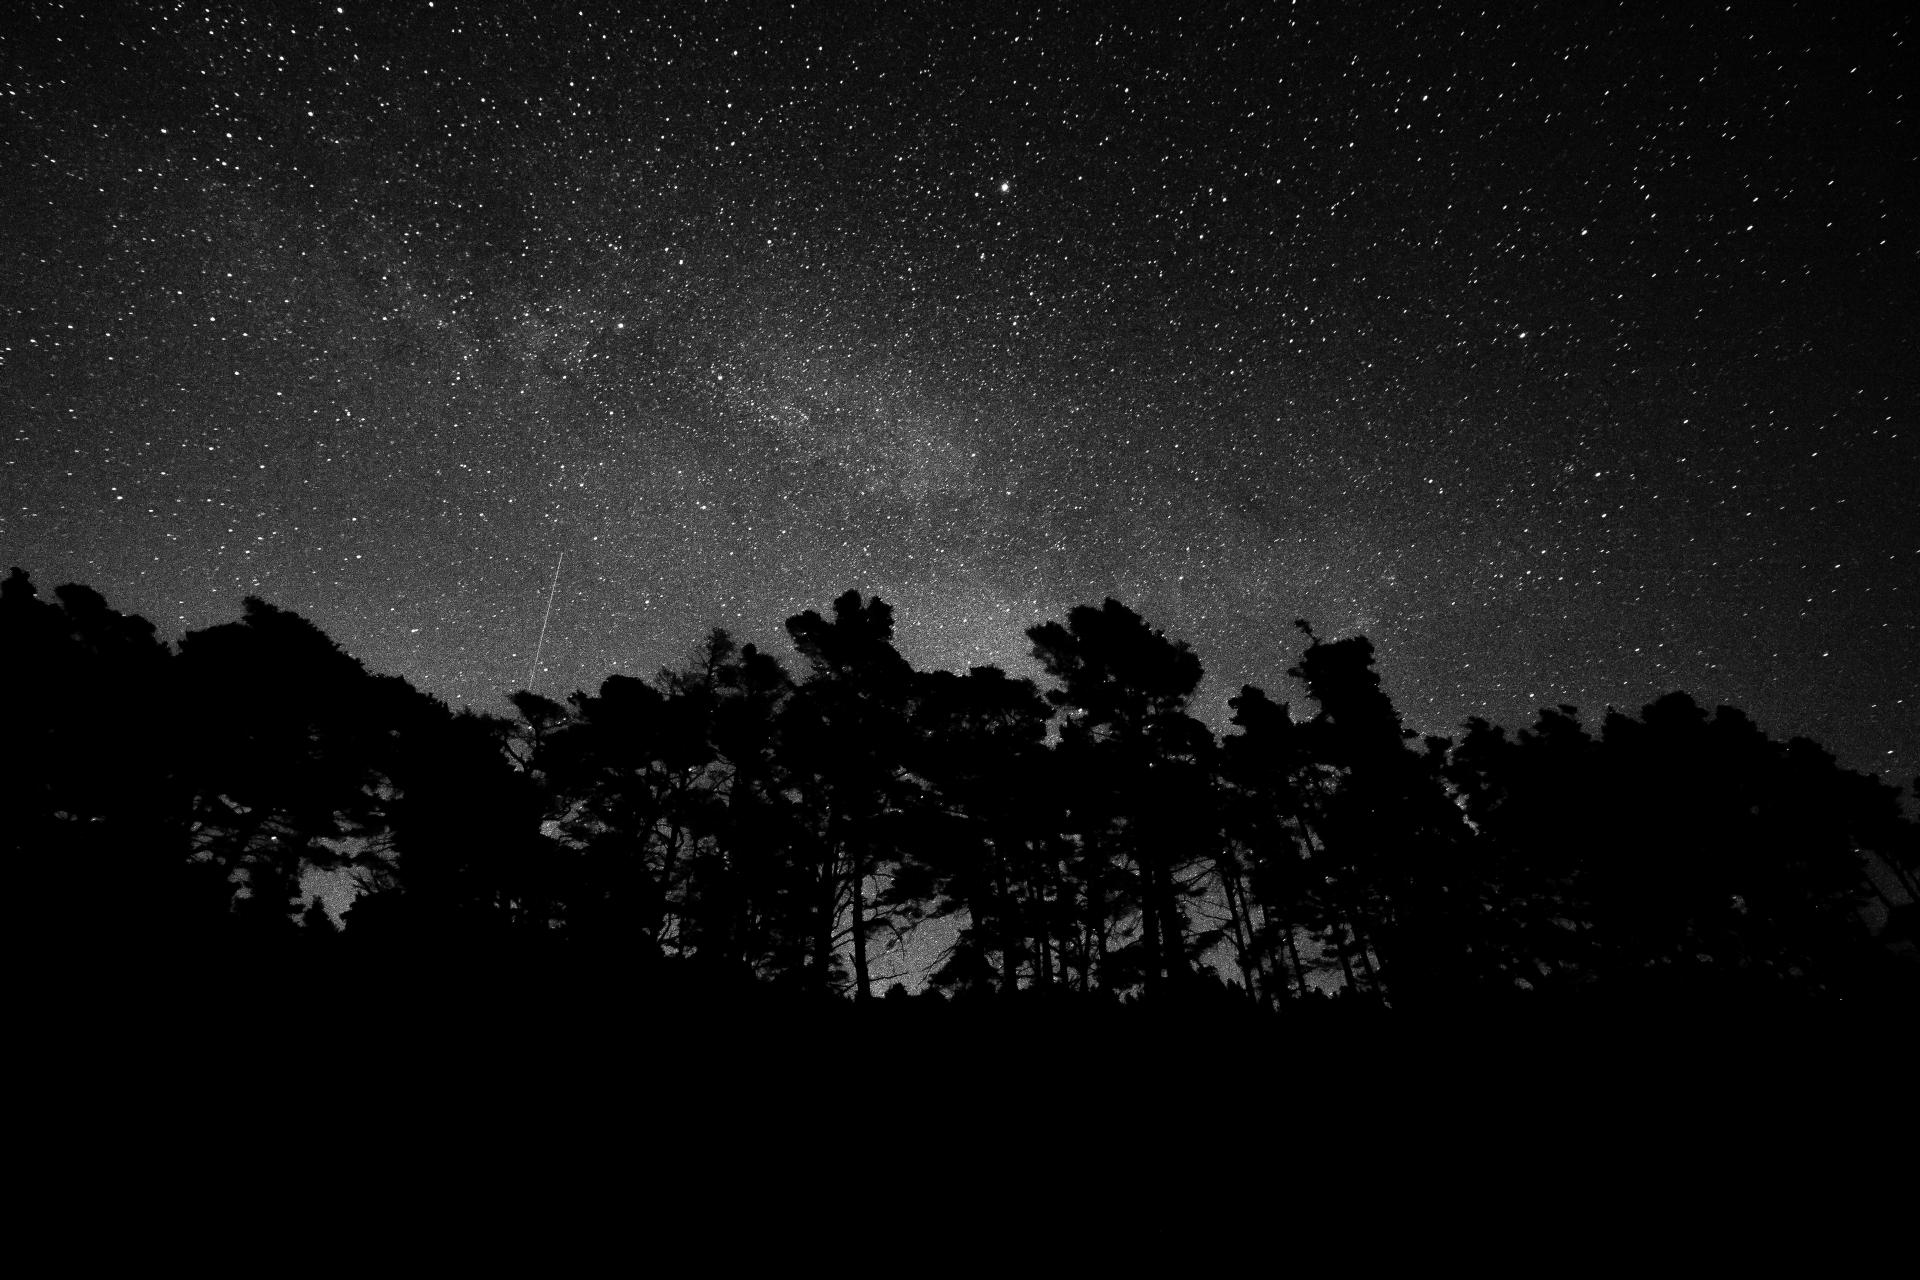
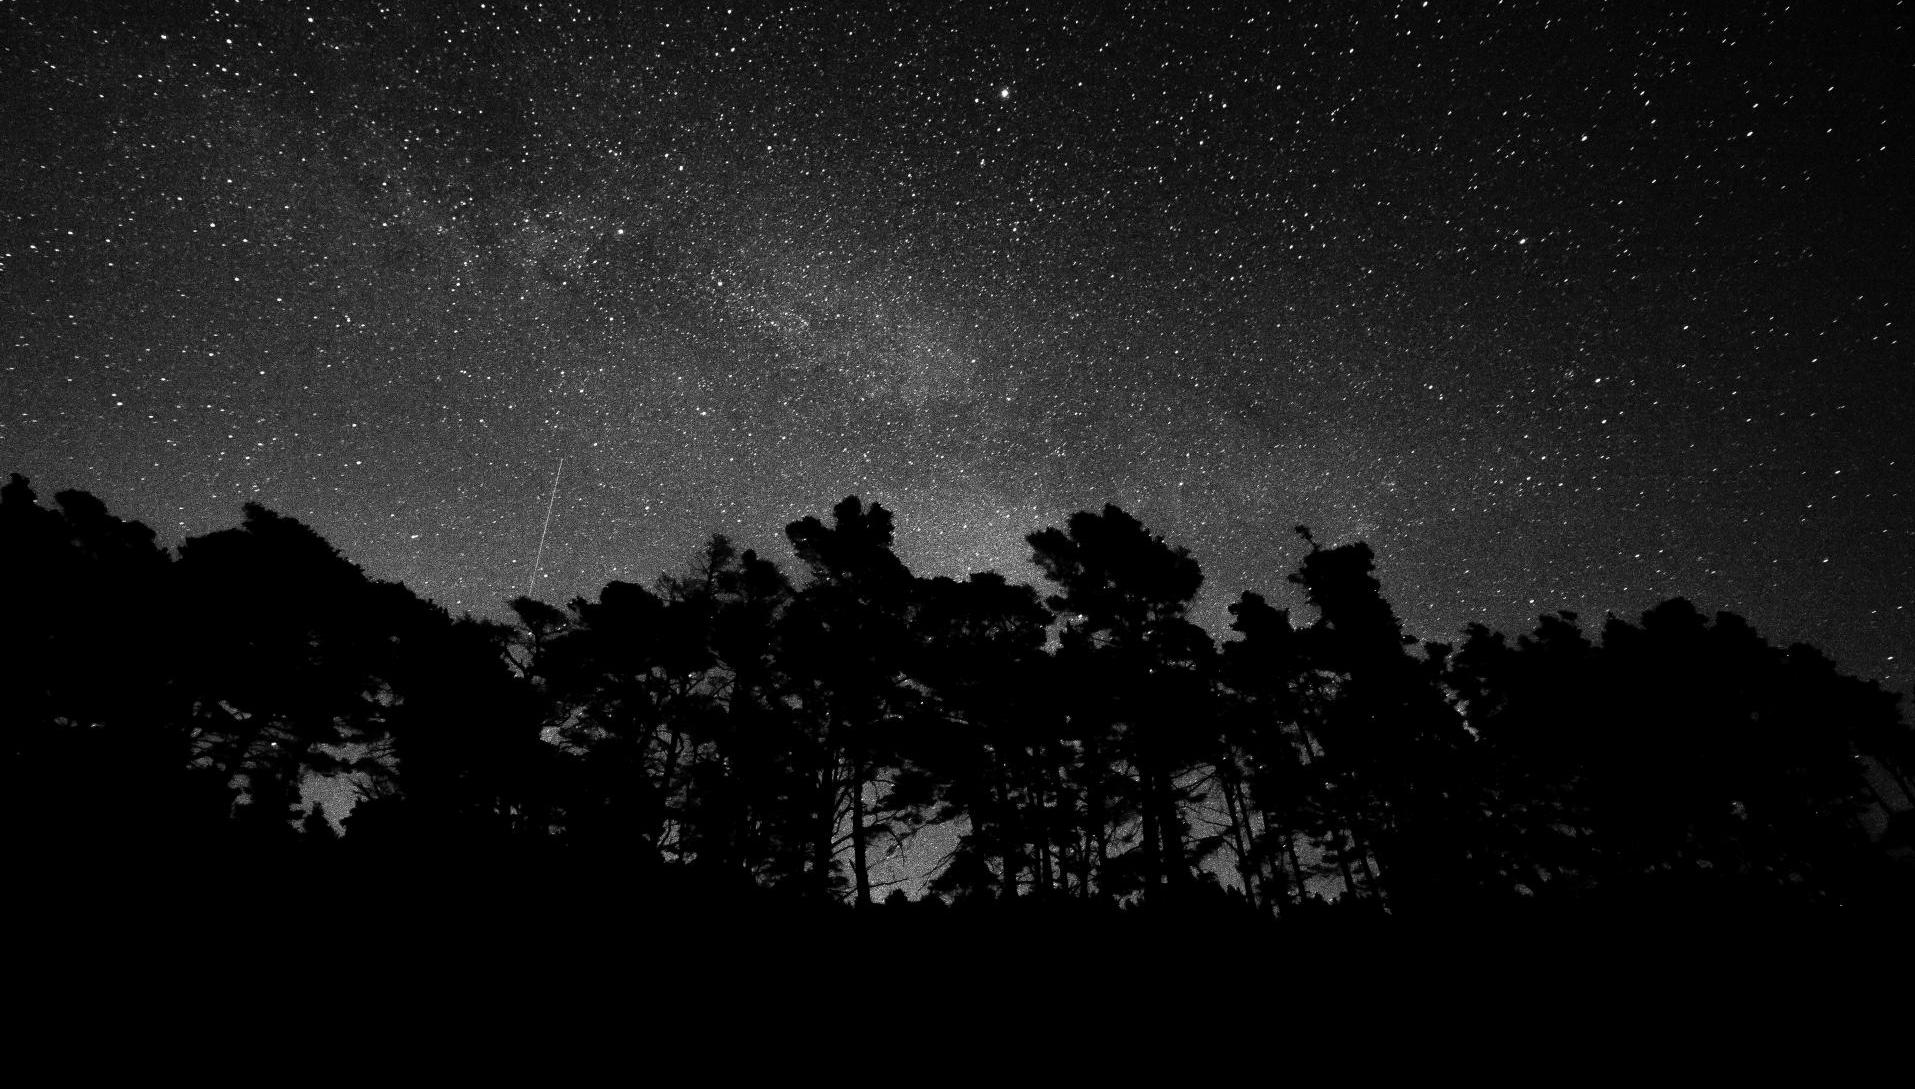
Shrink image sizes

diff --git a/_site/january-mood/index.html b/_site/january-mood/index.html
@@ -7,10 +7,10 @@
   <meta name="viewport" content="width=device-width, initial-scale=1">
   <link rel="shortcut icon" type="image/x-icon" href="https://vdchoi.github.io/theratcave.github.io/favicon.ico?">
 
-  <title>The Rat Cave | Discord Server</title>
+  <title>January Mood</title>
   <meta name='description' content='The Rat Cave is a fast-growing, tight-knit gaming community. We offer hosted lobbies for games ranging from Among Us to Minecraft.'>
 
-  <link rel="canonical" href="http://localhost:4000/theratcave.github.io/">
+  <link rel="canonical" href="http://localhost:4000/theratcave.github.io/january-mood/">
   <link rel="alternate" type="application/rss+xml" title="The Rat Cave | Discord Server" href="/theratcave.github.io/feed.xml">
 
   <!-- Google Font -->
@@ -105,117 +105,159 @@
 
       <div class="container">
 	<div class="row">
-	
 		<div class="col col-12">
-			<article class="article-first">
-				<div class="article-image-first" style="background-image: url(/theratcave.github.io/img/january.jpg)">
-					<div class="article-content-first">
-						<div class="article-tag">
-							<a href="https://discord.gg/theratcave" class="tag"></a>
-						</div>
-						<h2 class="article-title">January Mood</h2>
-						<p class="article-excerpt">
-  My mood today is remembering. Remembering the ups and downs of last year. This year is going to be better in every way. To a new year y’all! And remember to ...</p>
-						<a href="https://discord.gg/theratcave" class="button read-more">Learn More</a>
-					</div>
-				</div>
-			</article> <!-- /.article-first -->
+			<div class="post-image-box">
+				<div class="post-image" style="background-image: url(/theratcave.github.io/img/january.jpg)"></div>
+			</div>
 		</div>
-		
-
-		
-
-		
-
-		
-	
 	</div>
 </div>
 
 <div class="container">
 	<div class="row">
-		<div class="col col-12 col-t-8">
-			<div class="row"><article class="article col col-12 col-t-6">
-					<div class="article-box">
-						<div class="article-head">
-							<a href="/theratcave.github.io/minecraft-realms/" class="article-image" style="background-image: url(/theratcave.github.io/img/mcdark.jpeg)">
-								<div class="image-overlay">
-									<span class="image-overlay-text">M</span>
-								</div>
-							</a>
-						</div>
-						<div class="article-content">
-							<div class="article-info">
-								<div class="article-date">
-									<span class="date"><time datetime="2021-01-13T22:48:55-08:00">Jan 13, 2021</time></span>
-								</div>
-								<div class="article-tag">
-								 
-								</div>
-							</div>
-							<h2 class="article-title">
-								<a href="/theratcave.github.io/minecraft-realms/">Minecraft Realms</a>
-							</h2>
-							<p class="article-excerpt">As The Rat Cave, we naturally need a Realm. A Minecraft Realm that is.
+		<article class="col col-12 col-t-8 post">
+			<div class="post-content">
 
-Come join us in The Rat Realm, a server-exclusive Minecraft ...</p>
+				<div class="post-head">
+					
+					<div class="post-tag">
+						
+						<a href="/theratcave.github.io/tags#Music" class="tag">Music</a>
+						
+					</div>
+					
+					<h1 class="post-title">January Mood</h1>
+					<div class="post-info">
+						<div class="post-info-author">
+							<div class="info-author-avatar" style="background-image: url(/theratcave.github.io/img/vikkyc.png)"></div>
+							<span>by</span>
+							<span class="info-author-name">vikkyc</span>
+						</div>
+						<div class="post-date">
+							<span>
+								<time datetime="2021-01-14T05:04:55-08:00">Jan 14, 2021</time>
+							</span>
 						</div>
 					</div>
-				</article> <!-- /.article -->
-			<article class="article col col-12 col-t-6">
-					<div class="article-box">
-						<div class="article-head">
-							<a href="/theratcave.github.io/december-mood/" class="article-image" style="background-image: url(/theratcave.github.io/img/december.jpg)">
-								<div class="image-overlay">
-									<span class="image-overlay-text">D</span>
-								</div>
-							</a>
-						</div>
-						<div class="article-content">
-							<div class="article-info">
-								<div class="article-date">
-									<span class="date"><time datetime="2021-01-01T05:04:55-08:00">Jan 1, 2021</time></span>
-								</div>
-								<div class="article-tag">
-								
-									
-									<a href="/theratcave.github.io/tags#Music" class="tag">Music</a>
-									
-								
-								</div>
-							</div>
-							<h2 class="article-title">
-								<a href="/theratcave.github.io/december-mood/">December Mood</a>
-							</h2>
-							<p class="article-excerpt">
-  Mood for the week. Hopefully y’all are feeling blessed - if not I got you. - Lonk
+				</div>
 
+				<div class="post-body">
+					<blockquote>
+  <p>My mood today is remembering. Remembering the ups and downs of last year. <br />This year is going to be better in every way. To a new year y’all! <br />And remember to “Just shine all you can!”<br /> - Lonk</p>
+</blockquote>
 
-The Rat Cave Playlist for December 2020
+<h4 id="the-rat-cave-playlist-for-january-2021">The Rat Cave Playlist for January 2021</h4>
 
-Dece...</p>
-						</div>
-					</div>
-				</article> <!-- /.article -->
-			
-			</div>
-			<div class="row">
-  <div class="col col-12">
-    <div class="pagination">
-      <ul class="pagination-list list-reset">
-        
+<p>We made it to 2021! We’re excited to charge into the new year.</p>
 
-        
-      </ul>
-    </div> <!-- /.pagination -->
-  </div>
+<p>Enjoy our playlist to be more productive in January. Cheers!</p>
+
+<div class="embed-spotify-list">
+    <iframe src="https://open.spotify.com/embed/playlist/4UJgNJEGcZr6XtgEAAmOgh" width="300" height="380" frameborder="0" allowtransparency="true" allow="encrypted-media">
+    </iframe>
 </div>
 
-		</div>
-		<div class="col col-12 col-t-4">
-			<aside class="sidebar">
+
+					<div class="post-share">
+						<ul class="share-list list-reset">
+							<li class="share-item">
+								<a class="share-facebook" href="https://www.facebook.com/sharer/sharer.php?u=http://localhost:4000/theratcave.github.io/january-mood/"
+								onclick="window.open(this.href, 'pop-up', 'left=20,top=20,width=500,height=500,toolbar=1,resizable=0'); return false;"
+								title="Share on Facebook" rel="nofollow">
+									<i class="ion ion-logo-facebook"></i>
+								</a>
+							</li>
+					
+							<li class="share-item">
+								<a class="share-twitter" href="https://twitter.com/intent/tweet?text=January%20Mood&url=http://localhost:4000/theratcave.github.io/january-mood/"
+								onclick="window.open(this.href, 'pop-up', 'left=20,top=20,width=500,height=500,toolbar=1,resizable=0'); return false;"
+								title="Share on Twitter" rel="nofollow">
+									<i class="ion ion-logo-twitter"></i>
+								</a>
+							</li>
+					
+							<li class="share-item">
+								<a class="share-linkedin" href="https://www.linkedin.com/shareArticle?mini=true&url=http://localhost:4000/theratcave.github.io/january-mood/&title=January%20Mood&summary=&source=The%20Rat%20Cave%20%7C%20Discord%20Server"
+								onclick="window.open(this.href, 'pop-up', 'left=20,top=20,width=500,height=500,toolbar=1,resizable=0'); return false;"
+								title="Share on LinkedIn" rel="nofollow">
+									<i class="ion ion-logo-linkedin"></i>
+								</a>
+							</li>
+					
+							<li class="share-item">
+								<a class="share-pinterest" href="http://pinterest.com/pin/create/button/?url=http://localhost:4000/january-mood/&amp;media=http://localhost:4000/theratcave.github.io/img/january.jpg&amp;description=January%20Mood"
+								onclick="window.open(this.href, 'pop-up', 'left=20,top=20,width=900,height=500,toolbar=1,resizable=0'); return false;"
+								title="Share on Pinterest" rel="nofollow">
+									<i class="ion ion-logo-pinterest"></i>
+								</a>
+							</li>
+						</ul>
+					</div>
+				</div>
+
+				<div class="post-navigation">
+					
+					<a href="/theratcave.github.io/minecraft-realms/" class="prev">
+						<div class="post-nav-arrow"><i class="ion ion-ios-arrow-round-back"></i> Previous Article</div>
+						<h2 class="post-nav-title">Minecraft Realms</h2>
+					</a>
+					 
+				</div>
+
+			</div>
+			
+	</article> <!-- /.post -->
+
+	<div class="col col-12 col-t-4">
+		<aside class="sidebar">
   
   
+  <div class="widget widget-recent">
+    <h3 class="widget-title">Recent Posts</h3>
+    
+    <div class="recent-posts">
+      
+      <div class="recent-header">
+        <a class="recent-image" href="/theratcave.github.io/january-mood/" style="background-image: url(/theratcave.github.io/img/january.jpg)"></a>
+      </div>
+      
+      <div class="recent-content">
+        <h6 class="recent-title"><a href="/theratcave.github.io/january-mood/">January Mood</a></h6>
+        <div class="recent-date">
+          <time datetime="2021-01-14T05:04:55-08:00">January 14, 2021</time>
+        </div>
+      </div>
+    </div>
+    
+    <div class="recent-posts">
+      
+      <div class="recent-header">
+        <a class="recent-image" href="/theratcave.github.io/minecraft-realms/" style="background-image: url(/theratcave.github.io/img/mcdark.jpeg)"></a>
+      </div>
+      
+      <div class="recent-content">
+        <h6 class="recent-title"><a href="/theratcave.github.io/minecraft-realms/">Minecraft Realms</a></h6>
+        <div class="recent-date">
+          <time datetime="2021-01-13T22:48:55-08:00">January 13, 2021</time>
+        </div>
+      </div>
+    </div>
+    
+    <div class="recent-posts">
+      
+      <div class="recent-header">
+        <a class="recent-image" href="/theratcave.github.io/december-mood/" style="background-image: url(/theratcave.github.io/img/december.jpg)"></a>
+      </div>
+      
+      <div class="recent-content">
+        <h6 class="recent-title"><a href="/theratcave.github.io/december-mood/">December Mood</a></h6>
+        <div class="recent-date">
+          <time datetime="2021-01-01T05:04:55-08:00">January 1, 2021</time>
+        </div>
+      </div>
+    </div>
+    
+  </div>
   
 
   <div class="widget widget-social">
@@ -283,10 +325,10 @@ Dece...</p>
   </div>
   
 </aside> <!-- /.sidebar -->
-		</div>
+	</div>
+
 	</div>
 </div>
-
 
   <footer class="footer">
   <div class="container">

diff --git a/_site/minecraft-realms/index.html b/_site/minecraft-realms/index.html
@@ -188,6 +188,11 @@
 						<h2 class="post-nav-title">December Mood</h2>
 					</a>
 					 
+					<a href="/theratcave.github.io/january-mood/" class="next">
+						<div class="post-nav-arrow">Next Article <i class="ion ion-ios-arrow-round-forward"></i></div>
+						<h2 class="post-nav-title">January Mood</h2>
+					</a>
+					
 				</div>
 
 			</div>
@@ -200,6 +205,20 @@
   
   <div class="widget widget-recent">
     <h3 class="widget-title">Recent Posts</h3>
+    
+    <div class="recent-posts">
+      
+      <div class="recent-header">
+        <a class="recent-image" href="/theratcave.github.io/january-mood/" style="background-image: url(/theratcave.github.io/img/january.jpg)"></a>
+      </div>
+      
+      <div class="recent-content">
+        <h6 class="recent-title"><a href="/theratcave.github.io/january-mood/">January Mood</a></h6>
+        <div class="recent-date">
+          <time datetime="2021-01-14T05:04:55-08:00">January 14, 2021</time>
+        </div>
+      </div>
+    </div>
     
     <div class="recent-posts">
       

diff --git a/_site/december-mood/index.html b/_site/december-mood/index.html
@@ -220,6 +220,20 @@ Filled with holidays, December gave us a final respite after one heck of a year.
     <div class="recent-posts">
       
       <div class="recent-header">
+        <a class="recent-image" href="/theratcave.github.io/january-mood/" style="background-image: url(/theratcave.github.io/img/january.jpg)"></a>
+      </div>
+      
+      <div class="recent-content">
+        <h6 class="recent-title"><a href="/theratcave.github.io/january-mood/">January Mood</a></h6>
+        <div class="recent-date">
+          <time datetime="2021-01-14T05:04:55-08:00">January 14, 2021</time>
+        </div>
+      </div>
+    </div>
+    
+    <div class="recent-posts">
+      
+      <div class="recent-header">
         <a class="recent-image" href="/theratcave.github.io/minecraft-realms/" style="background-image: url(/theratcave.github.io/img/mcdark.jpeg)"></a>
       </div>
       

diff --git a/_site/tags/index.html b/_site/tags/index.html
@@ -124,7 +124,7 @@
   <ul class="tags-list">
   
     
-    <li class="tags-item"><a href="#Music" class="tags-link">Music <span>1</span></a></li>
+    <li class="tags-item"><a href="#Music" class="tags-link">Music <span>2</span></a></li>
   
   </ul>
 
@@ -134,6 +134,12 @@
     
   <h2 class="tags-title" id="Music">Music</h2>
   <div class="tags-group">
+    
+    <div class="tag-item">
+      <div class="tag-text">
+        <a class="tag-link" href="/theratcave.github.io/january-mood/">January Mood</a> | <small><span class="tag-date">14 Jan 2021</span></small>
+      </div>
+    </div>
     
     <div class="tag-item">
       <div class="tag-text">
